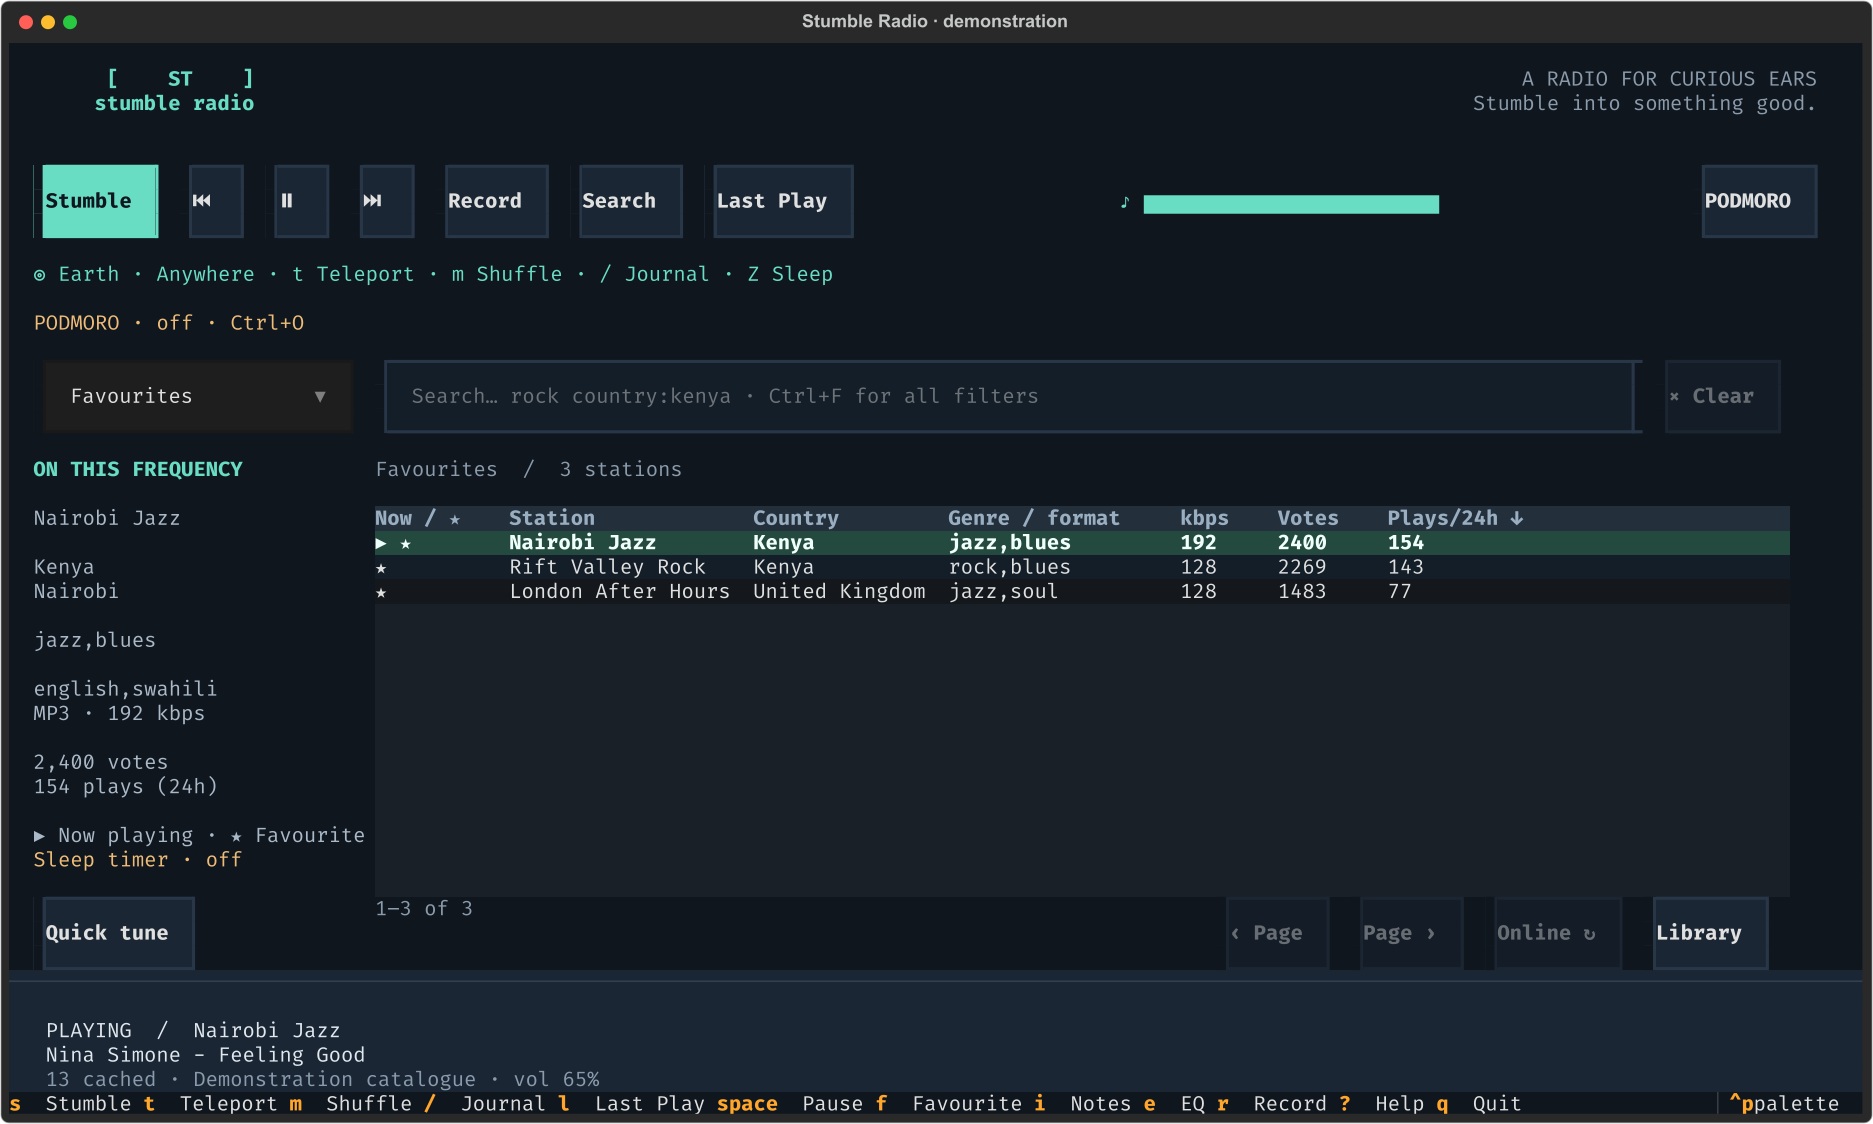
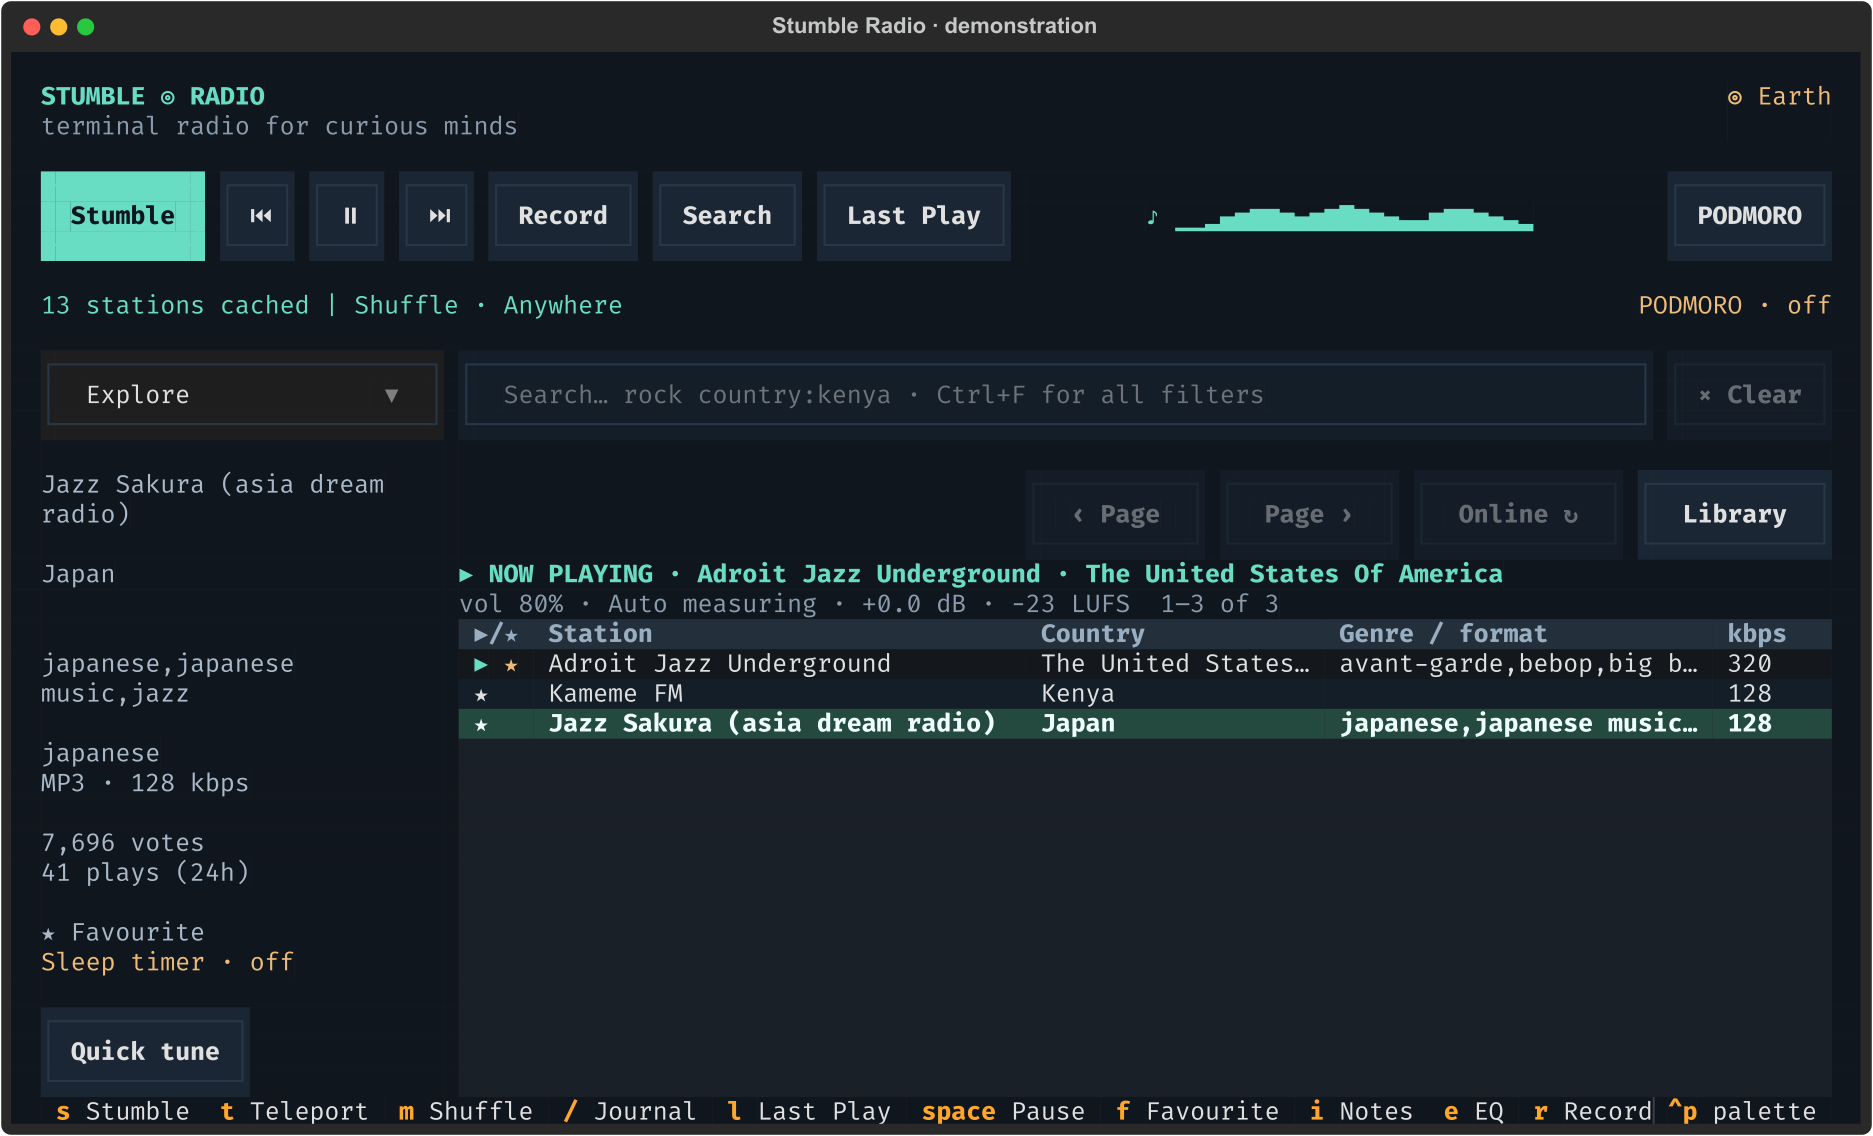
docs: update screenshots and correct documentation
Replace fictional stations with real ones in screenshots. Add 10 new
screenshots including compact layout, history, help, recording, and
sleep fading. Add compact layout documentation and history section.
Correct auto-leveling default from −12 dB to 0 dB.

diff --git a/docs/library.md b/docs/library.md
@@ -2,7 +2,7 @@
 
 [← Stumble Radio](../README.md)
 
-Screenshots show the actual interface with fictional stations and demonstration listening data.
+Screenshots show the actual interface with real stations and demonstration listening data.
 
 ![Favourites library with three starred stations](images/favourites.png)
 
@@ -35,9 +35,14 @@ Each page holds up to 100 distinct streams. Use **‹ Page / Page ›** or **[ /
 to browse. Changing libraries clears the search so a previous filter does not hide
 your saved stations. Playback continues while you browse.
 
+![History library with the most played stations leading, sorted by Plays (24h)](images/history.png)
+
+History starts with recently played stations grouped favourites first; clicking
+a header changes the order. Here it is sorted by Plays (24h).
+
 ## Quick tune
 
-![Compact station picker with a text input and favourite station choices](images/quick-tune.png)
+![Quick tune picker with a filter input over station choices from the current page](images/quick-tune.png)
 
 Ctrl+B opens a small picker for the current results page. Type to narrow its choices and press Enter to play one.
 
@@ -48,7 +53,7 @@ Quick tune searches the current page. Use the [main search bar](search.md) to se
 Right-click a station to open its notes, or highlight it and press **i**. **Enter** on the station list
 still plays the highlighted station; opening notes leaves playback running.
 
-![Station notes dialog with searchable mood notes and personal tags for Nairobi Jazz](images/station-notes.png)
+![Station notes dialog with searchable mood notes and personal tags for Kameme FM](images/station-notes.png)
 
 The right-click tooltip appears for the first three stations you tune after each
 launch, then stays hidden for the rest of that session. Reconnecting the same

diff --git a/docs/getting-started.md b/docs/getting-started.md
@@ -2,7 +2,7 @@
 
 [← Stumble Radio](../README.md)
 
-Screenshots show the actual interface with fictional stations and demonstration listening data.
+Screenshots show the actual interface with real stations and demonstration listening data.
 
 ![Stumble Radio playing a station, with transport controls, station browser and now-playing information](images/player.png)
 
@@ -45,6 +45,8 @@ are hidden. Keyboard shortcuts still work. The volume and automatic-leveling
 status stay below the playing station; the LUFS target and total result count
 are omitted when necessary, with the full status available on hover. Resizing
 preserves your playlist selection and scroll position.
+
+![Compact 44-column layout: sidebar and duplicate toolbar shortcuts hidden, transport controls and table remaining usable](images/compact.png)
 
 ## Advanced installation
 

diff --git a/docs/playback.md b/docs/playback.md
@@ -85,7 +85,7 @@ voice volume remain independent. Master volume is saved automatically and
 restored on the next launch (65% on first use). Recordings retain the original stream, and
 silence detection and the audio meter measure the source before EQ and gain.
 Automatic leveling measures three-second short-term loudness after EQ, starts each
-station at −12 dB correction, and moves gradually to avoid sudden jumps. It freezes
+station at 0 dB correction, and moves gradually to avoid sudden jumps. It freezes
 on silence and while playback is paused or buffering. Its correction is limited to
 −36…+24 dB. The target is a practical shared listening level, not broadcast
 normalization: stations with extreme loudness differences may reach the correction
